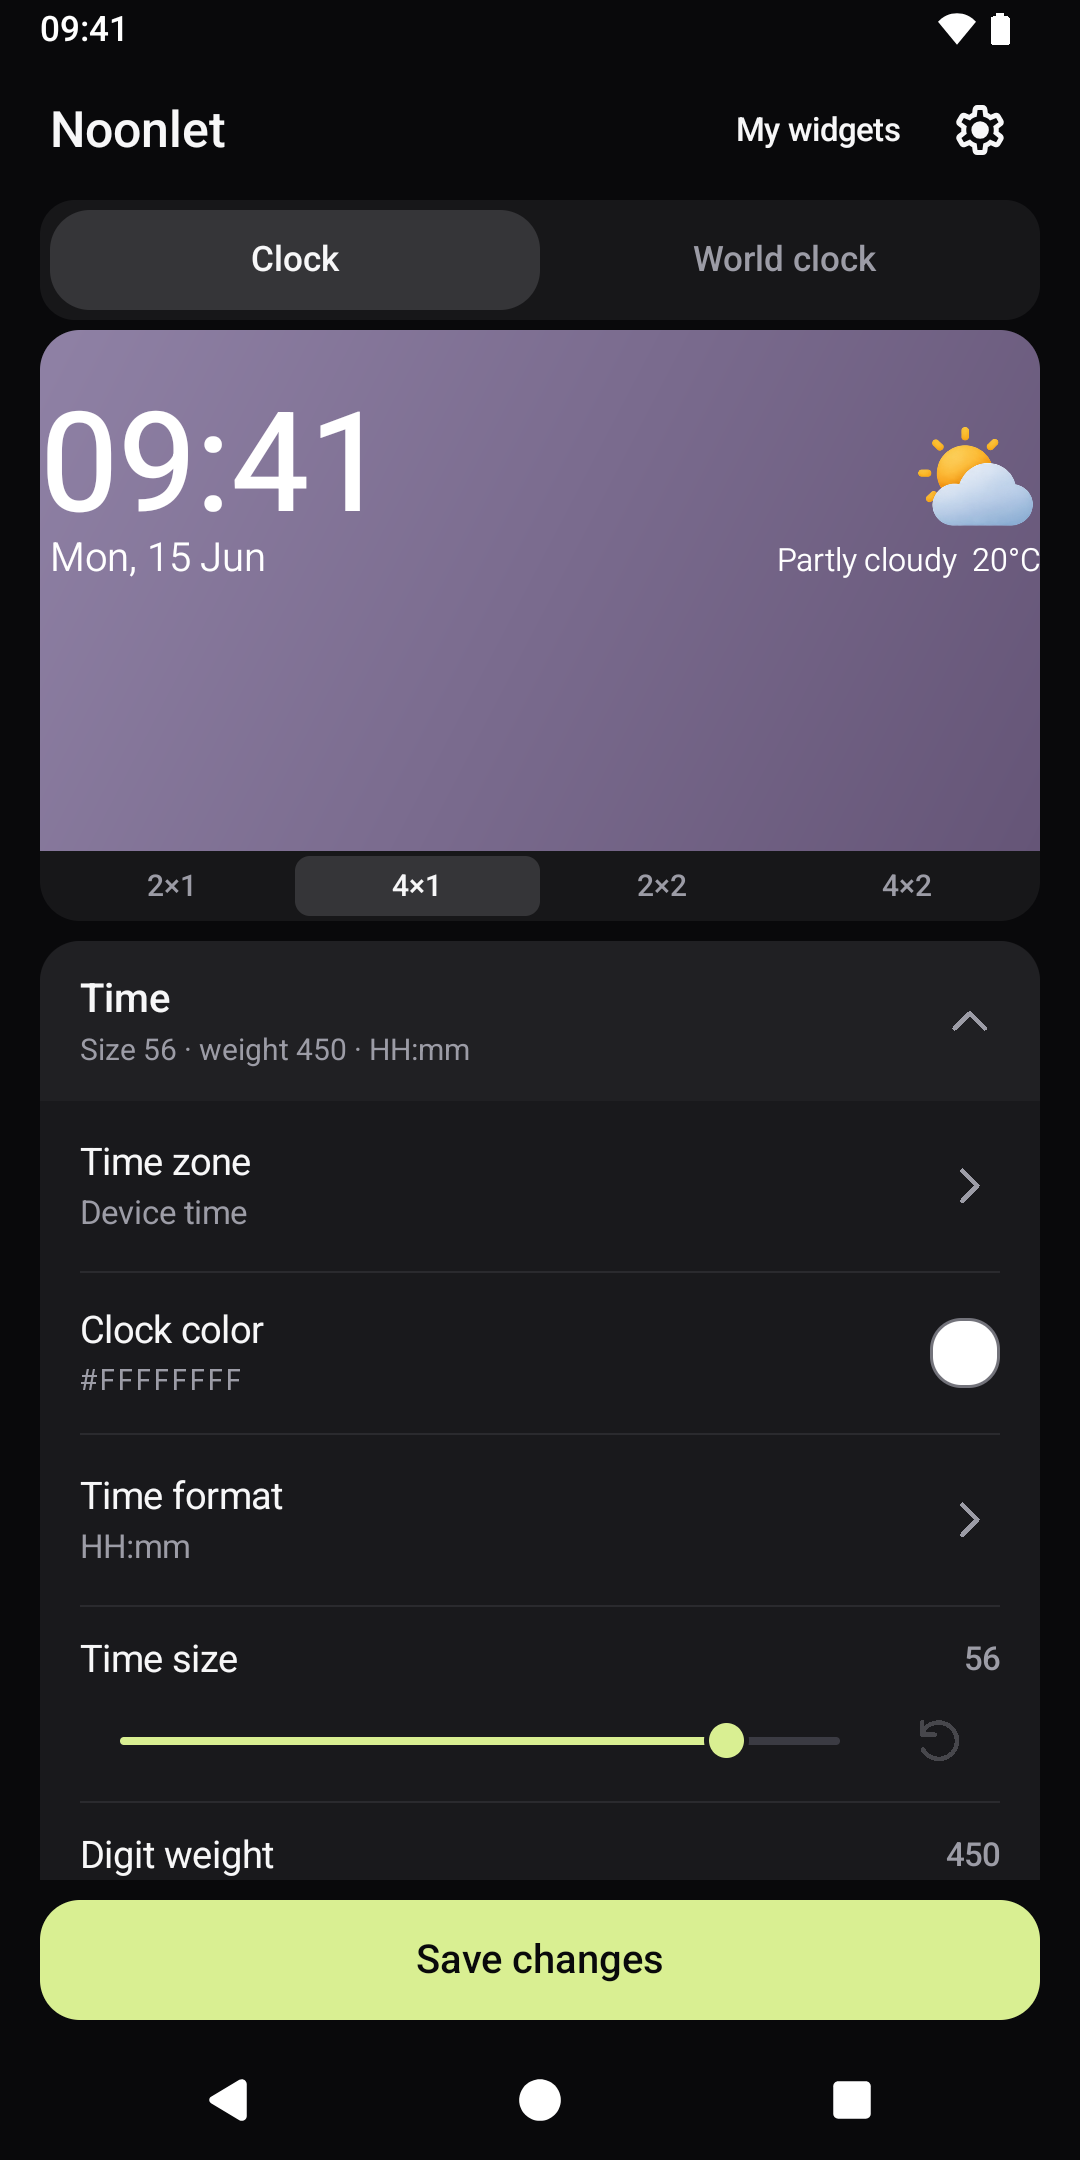
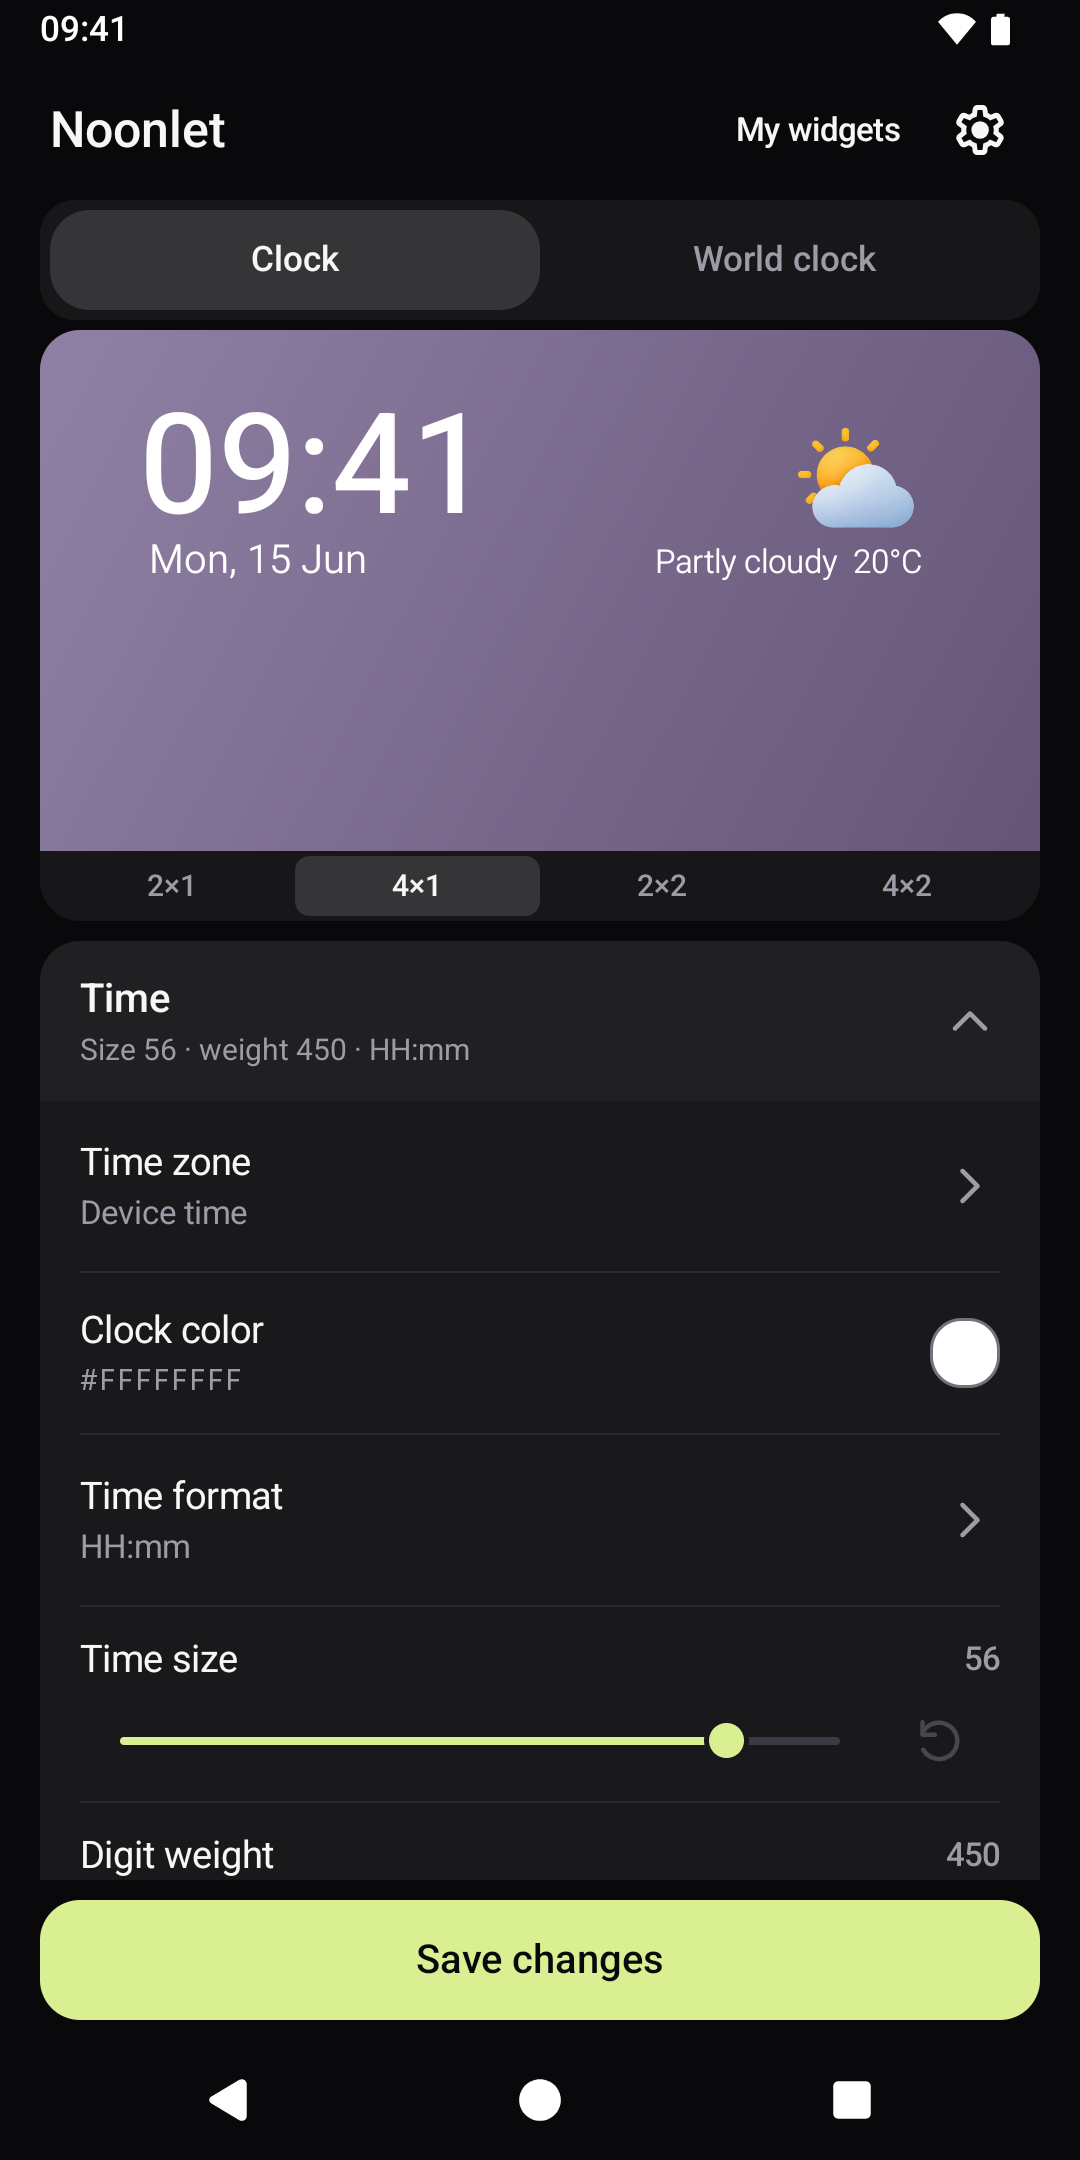
Update release download and editor screenshots

diff --git a/README.md b/README.md
@@ -2,7 +2,7 @@
 
 Home-screen clock widgets for Android 8.0 and later.
 
-[Download APK](https://github.com/YanGranat/noonlet-time-widget/releases/download/v1.4.39/Noonlet-1.4.39.apk)
+[Download APK](https://github.com/YanGranat/noonlet-time-widget/releases/download/v1.4.41/Noonlet-1.4.41.apk)
 
 - **Clock:** time, date, the next system alarm and optional weather, with configurable typography, colors, spacing and tap actions.
 - **World clock:** up to four cities or single-timezone countries, with day/night colors and an adjustable rounded backdrop.
